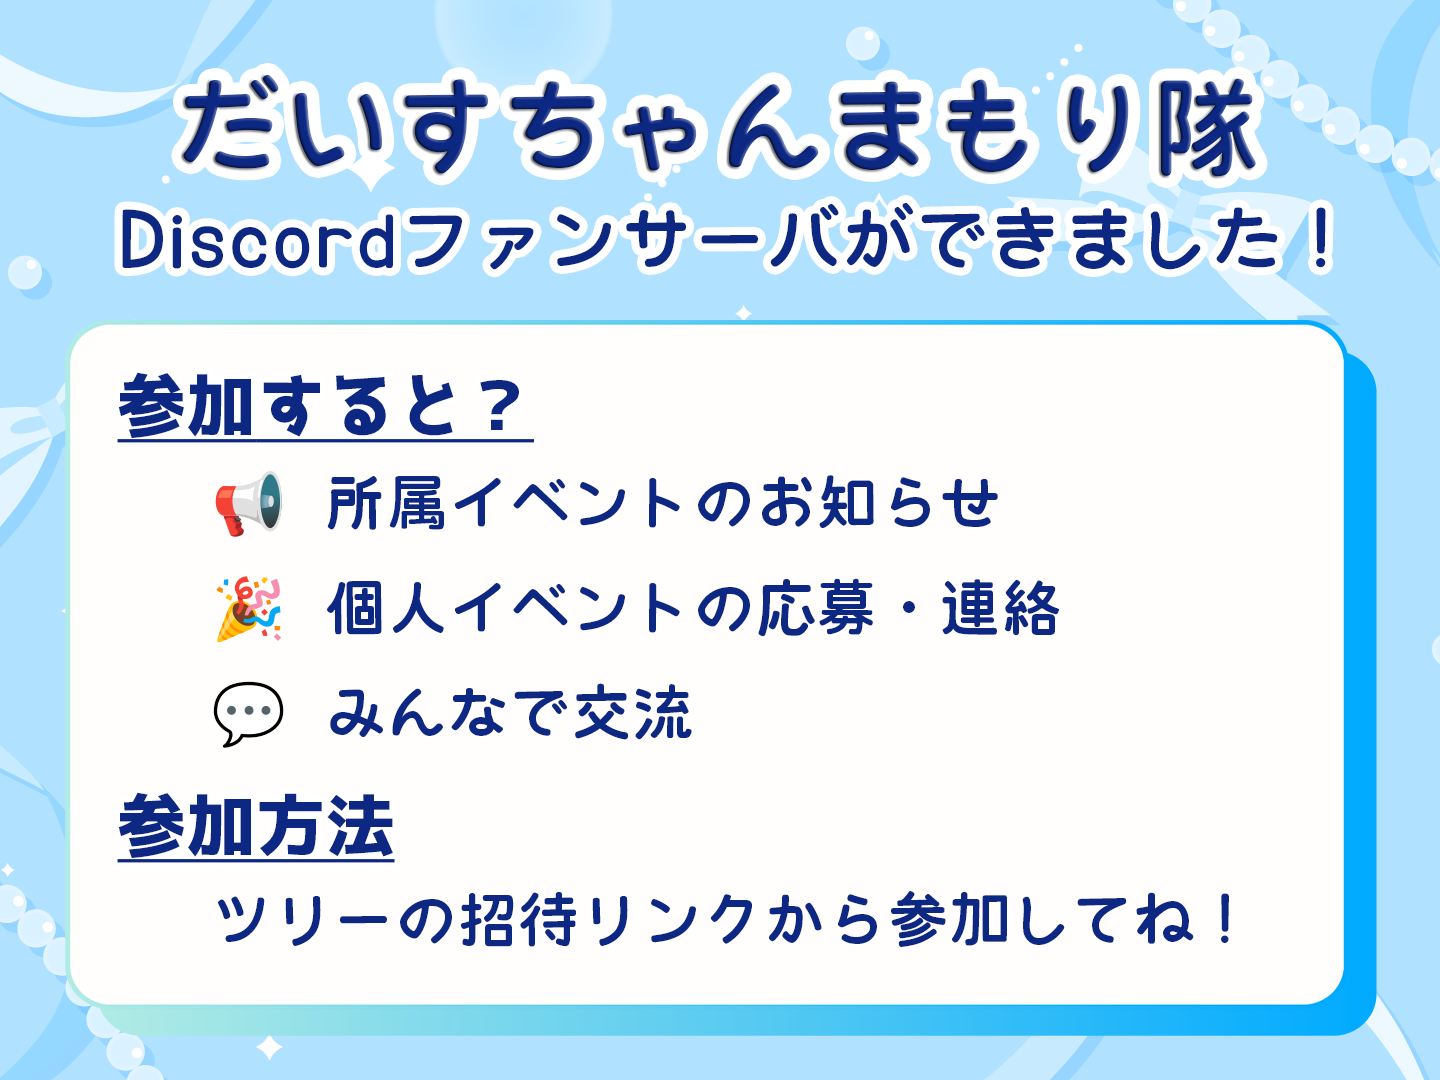
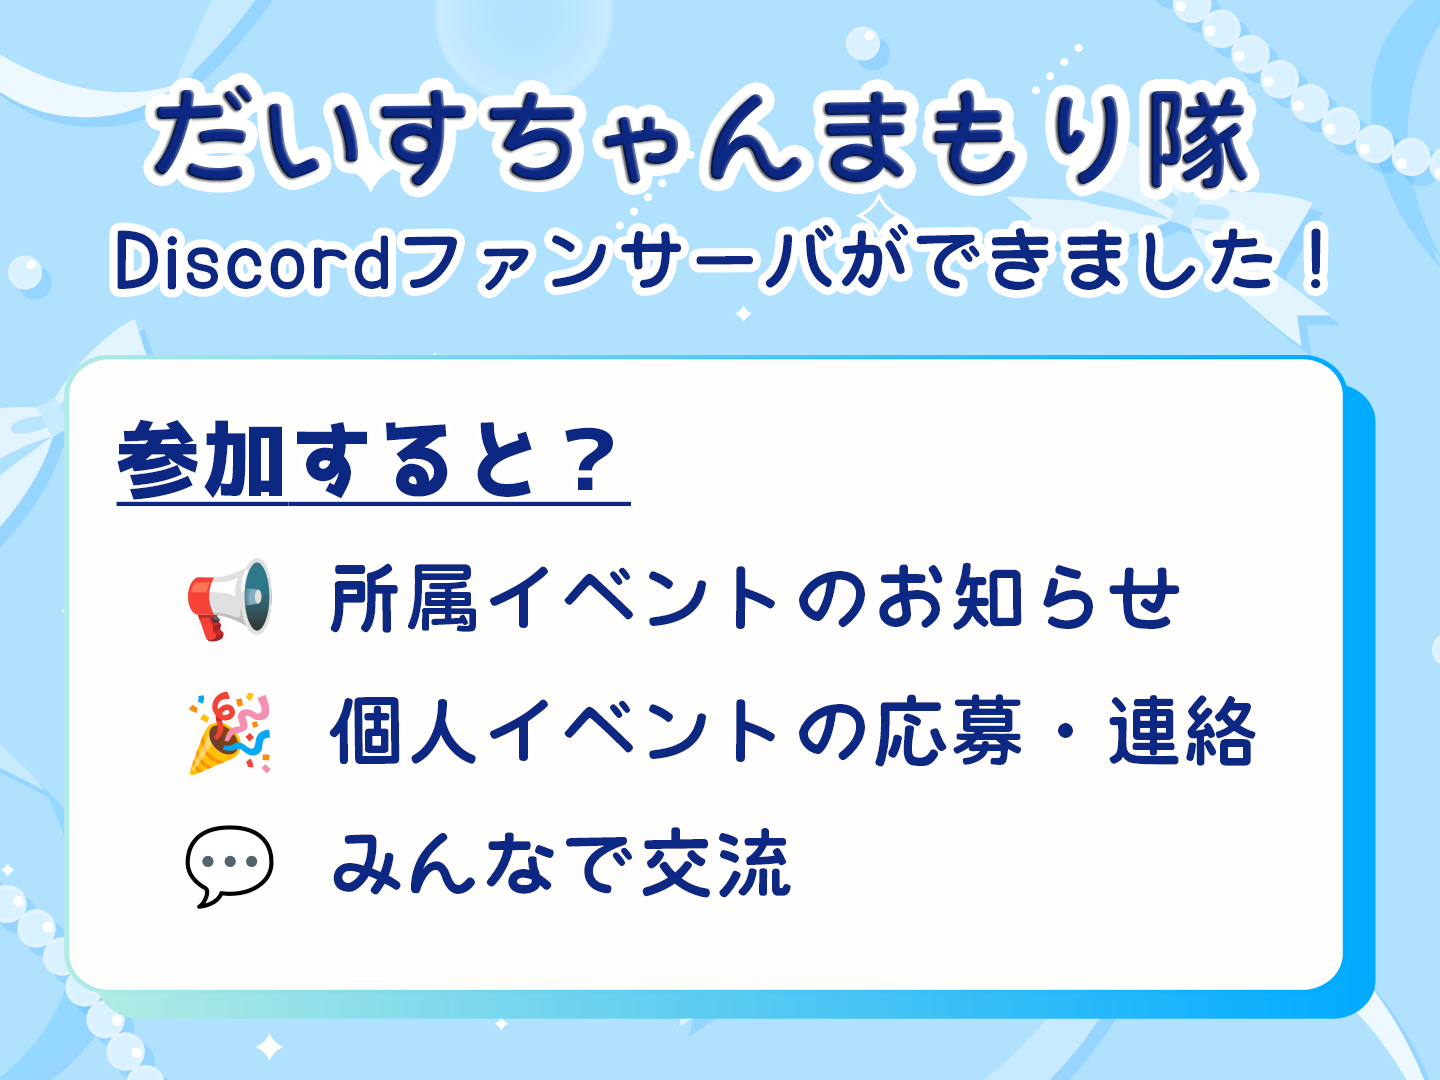
関連リンクにプロフィールサイトを追加

Changed region(s): [[0.0312, 0.0611, 0.9688, 0.8861], [0.0625, 0.8861, 0.9688, 0.9778], [0.0312, 0.8861, 0.0625, 0.9167]]

diff --git a/index.html b/index.html
@@ -133,6 +133,27 @@
                     </div>
                 </a>
 
+                <!-- プロフィールサイト -->
+                <a href="https://dicerollsnowy.github.io/"
+                   target="_blank" 
+                   class="fan-card">
+
+                    <div class="fan-image">
+                        <img src="images/profile-site-banner.png" alt="">
+                    </div>
+                    <div class="fan-content">
+                        <span class="fan-label">PROFILE SITE</span>
+
+                        <h3>プロフィールサイト</h3>
+                        <p>
+                            だいすろーるのプロフィールを掲載したサイトです。
+                        </p>
+                        <span class="fan-arrow">
+                            →
+                        </span>
+                    </div>
+                </a>
+
             </div>
         </section>
 
